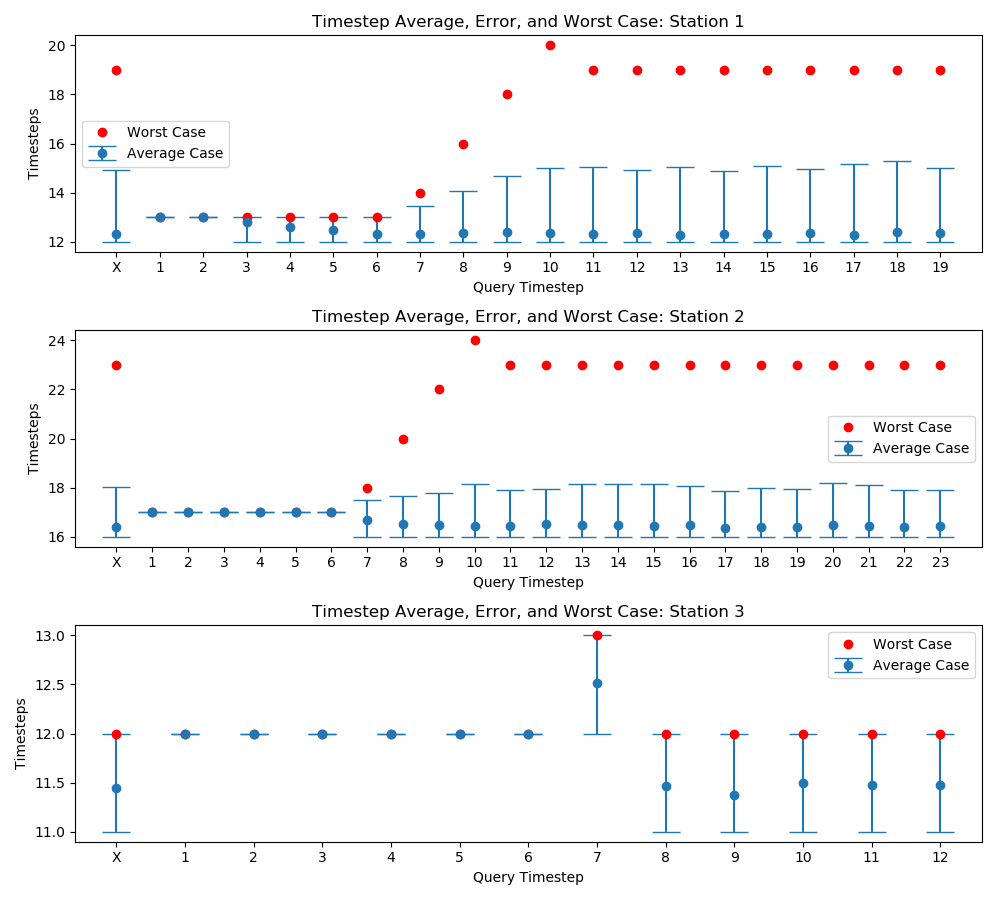
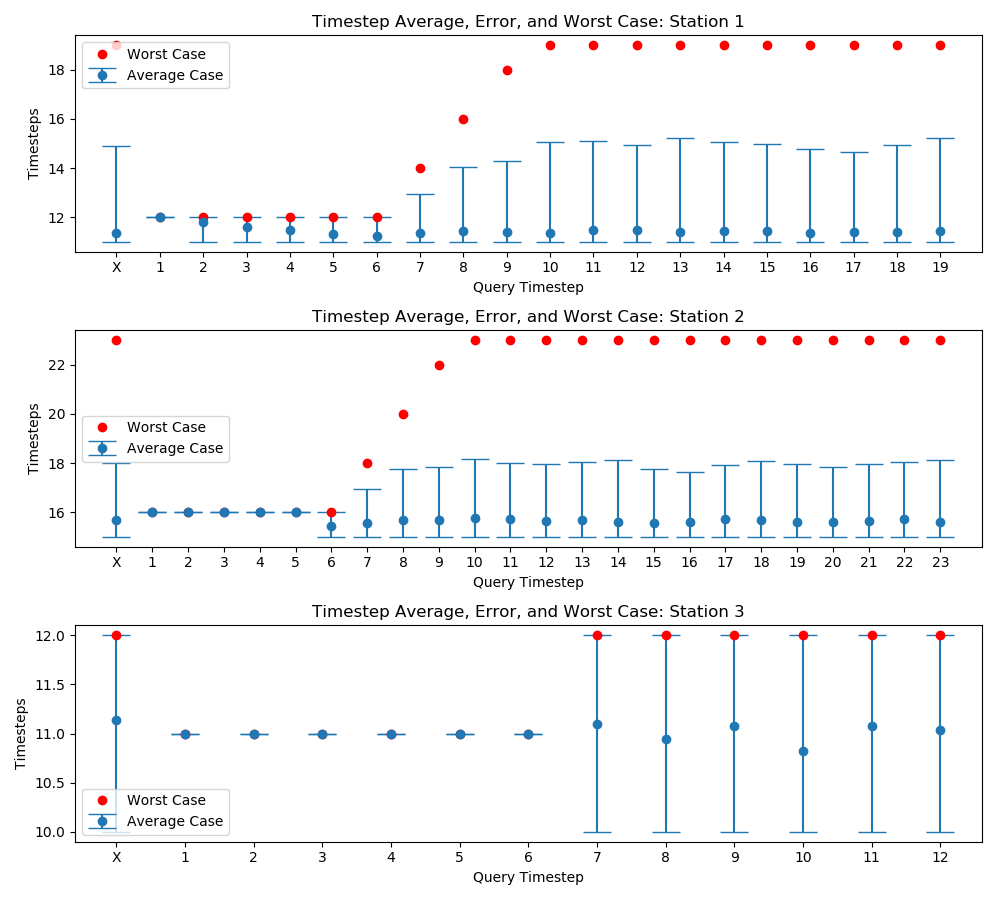
Fixed query/inference interaction edge case

diff --git a/src/agents/agent_adhoc_q.py b/src/agents/agent_adhoc_q.py
@@ -52,42 +52,30 @@ class agent_adhoc(AbstractAgent):
           - Else, go to get the tool first.
         """
         self.p_obs_temp = obs
-        if obs.timestep == 0:
-            #If it's the first timestep, we have no clue.
-            #self.tracking_stations = self.get_remaining_stations(obs)
-            #self.inference_engine = inference_engine(self.tracking_agent,self.tracking_stations)
 
-            target_station = np.random.choice(self.tracking_stations) #pick a station at random.
+        curr_k_idx = self.knowledge.get_current_job_station_idx()
+        #Checking what knowledge we have.
+        if (self.knowledge.source[curr_k_idx]==Knowledge.origin.Answer):
+            #Then we simply work on the station because we have an answer telling us that that's the station to work on.
+            target_station = self.knowledge.station_order[curr_k_idx]
+
+        elif (self.knowledge.source[curr_k_idx] == None):
+            #which means we just started or finished a station in the last time-step. This calls for re-initalizing the inference_engine
+            self.tracking_stations = self.get_remaining_stations(obs)
+            self.inference_engine = inference_engine(self.tracking_agent,self.tracking_stations)
+            target_station = np.random.choice(self.tracking_stations)
             self.knowledge.update_knowledge_from_inference(target_station)
 
+        elif (self.knowledge.source[curr_k_idx]==Knowledge.origin.Inference):
+            #Which means we have been working on a inference for a station.
+            target_station, certainty = self.inference_engine.inference_step(self.p_obs,obs)
+            self.knowledge.update_knowledge_from_inference(target_station)
+            if certainty:
+                self.certainty = certainty
+
         else:
-            curr_k_idx = self.knowledge.get_current_job_station_idx()
-            #Checking what knowledge we have.
-            if (self.knowledge.source[curr_k_idx]==Knowledge.origin.Answer):
-                #Then we simply work on the station because we have an answer telling us that that's the station to work on.
-                target_station = self.knowledge.station_order[curr_k_idx]
-                #new_prior = np.zeros(self.inference_engine.prior.shape)
-                #new_prior[curr_k_idx]
-                #self.inference_engine.prior = 
-                #self.certainty = True
-            elif (self.knowledge.source[curr_k_idx] == None):
-                #which means we just finished a station in the last time-step. This calls for re-initalizing the inference_engine
-                self.tracking_stations = self.get_remaining_stations(obs)
-                self.inference_engine = inference_engine(self.tracking_agent,self.tracking_stations)
-                target_station = np.random.choice(self.tracking_stations)
-                self.knowledge.update_knowledge_from_inference(target_station)
-
-            elif (self.knowledge.source[curr_k_idx]==Knowledge.origin.Inference):
-                #Which means we have been working on a inference for a station.
-                target_station, certainty = self.inference_engine.inference_step(self.p_obs,obs)
-                self.knowledge.update_knowledge_from_inference(target_station)
-                if certainty:
-                    self.certainty = certainty
-                # warnings.WarningMessage("Provision resetting inference_engine when a station is finished")
-
-            else:
-                #it should never come to this.
-                raise Exception("Some mistake around")
+            #it should never come to this.
+            raise Exception("Some mistake around")
 
         """
         Okay, now that we know which station we should be headed to, we need to ensure the nitty-gritty details.

diff --git a/src/environment.py b/src/environment.py
@@ -35,7 +35,7 @@ class environment():
         self.sttn_pos = sttn_positions
         self.tools_pos = tools_pos
         self.agents = [None, None] # Assumed only 2 agents, leader and adhoc respectively
-        self.allActions = [None, None]
+        self.allActions = [gd.Actions.NOOP, gd.Actions.NOOP]
 
         self.communication_time_steps = []
 
@@ -250,6 +250,11 @@ class environment():
         :return:
         """
         self.step_count+=1
+
+        if self.step_count > 1:
+            # Update inferencing engine and adhoc's certainty variable by calling adhoc agent's respond function before checking to query
+            observation = self.generate_observation()
+            proposal = self.agents[gd.ADHOC_IDX].respond(observation)
 
         certainty = self.agents[gd.ADHOC_IDX].certainty
 

diff --git a/experiment.py b/experiment.py
@@ -190,7 +190,7 @@ def create_graphs(grid_size, stn_pos_perm, stn_names, tools_pos, l_pos, a_pos, l
         axs2.set_ylabel('Timesteps')
         axs2.set_xticks(positions)
         axs2.set_xticklabels(labels)
-        axs2.legend(['Worst Case', 'Average Case'])
+        # axs2.legend(['Worst Case', 'Average Case'])
 
     fig.tight_layout()
     fig2.tight_layout()
@@ -216,4 +216,4 @@ a_pos = Point2D(4, 0)
 create_graphs(grid_size, stn_pos_perm, stn_names, tools_pos, l_pos, a_pos, l_tp_perm)
 
 path = [gd.Actions.UP] * 3
-# experiment(grid_size, stn_pos_perm[2], tools_pos, l_pos, a_pos, l_tp_perm[0], path, [], debug=True)
+# experiment(grid_size, stn_pos_perm[2], tools_pos, l_pos, a_pos, l_tp_perm[0], path, [7], debug=True)
